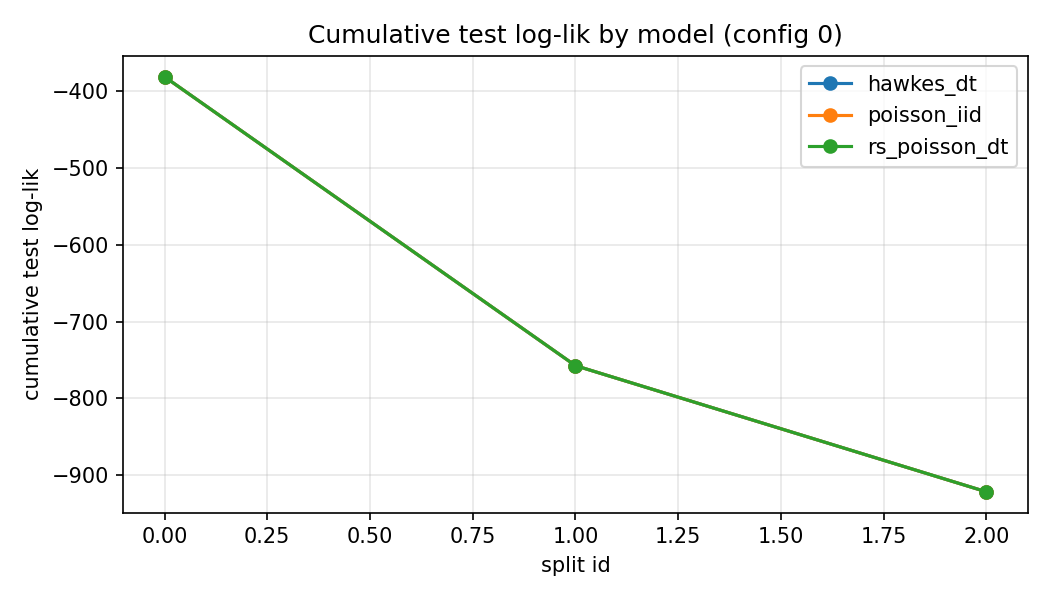
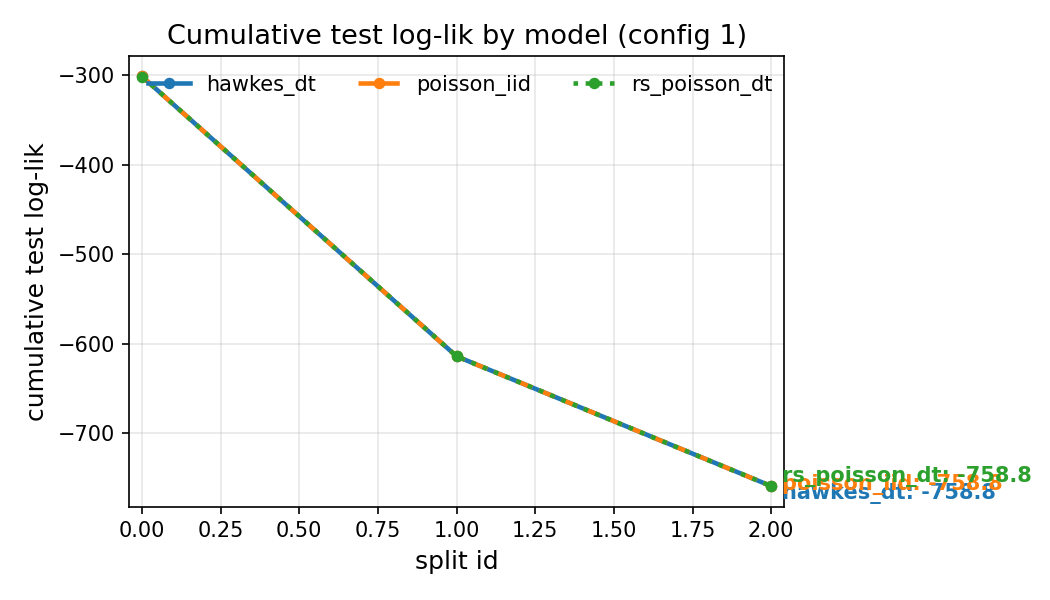
minor update

diff --git a/criticality/plots.py b/criticality/plots.py
@@ -4,6 +4,7 @@ from __future__ import annotations
 from typing import Optional, Sequence
 
 import matplotlib.pyplot as plt
+from matplotlib import cm
 import numpy as np
 import pandas as pd
 
@@ -19,6 +20,7 @@ def plot_counts(df: pd.DataFrame) -> None:
     ax.set_xlabel("time")
     ax.set_ylabel("count")
     ax.legend()
+    ax.set_axisbelow(True)
     fig.tight_layout()
 
 
@@ -27,7 +29,17 @@ def plot_cumulative_scores(results: pd.DataFrame, config_id: Optional[int] = Non
 
     if results.empty:
         raise ValueError("results dataframe is empty")
-    cfg_id = results["config_id"].min() if config_id is None else config_id
+    for required in ("config_id", "test_loglik", "split_id", "model"):
+        if required not in results.columns:
+            raise ValueError(f"results dataframe missing required column '{required}'")
+
+    if config_id is None:
+        totals = results.groupby("config_id", dropna=False)["test_loglik"].sum()
+        if totals.empty:
+            raise ValueError("results dataframe has no config_id groups")
+        cfg_id = int(totals.idxmax())
+    else:
+        cfg_id = config_id
     subset = results.loc[results["config_id"] == cfg_id]
     if subset.empty:
         raise ValueError(f"No rows for config_id={cfg_id}")
@@ -40,14 +52,37 @@ def plot_cumulative_scores(results: pd.DataFrame, config_id: Optional[int] = Non
     cumsums = pivot.cumsum()
 
     if ax is None:
-        _, ax = plt.subplots(figsize=(7, 4))
-    for model in cumsums.columns:
-        ax.plot(cumsums.index, cumsums[model], marker="o", label=str(model))
+        _, ax = plt.subplots(figsize=(8, 4.5))
+    styles = ["solid", "dashed", "dotted", (0, (3, 1, 1, 1))]
+    colors = cm.get_cmap("tab10").colors
+    for idx, model in enumerate(cumsums.columns):
+        color = colors[idx % len(colors)]
+        ax.plot(
+            cumsums.index,
+            cumsums[model],
+            marker="o",
+            markersize=4.5,
+            linewidth=2.2,
+            linestyle=styles[idx % len(styles)],
+            color=color,
+            label=str(model),
+        )
+        final_y = cumsums[model].iloc[-1]
+        ax.annotate(
+            f"{model}: {final_y:.1f}",
+            xy=(cumsums.index[-1], final_y),
+            xytext=(5, (idx - len(cumsums.columns) / 2) * 4),
+            textcoords="offset points",
+            color=color,
+            fontsize=10,
+            fontweight="bold",
+        )
     ax.set_title(f"Cumulative test log-lik by model (config {cfg_id})")
     ax.set_xlabel("split id")
     ax.set_ylabel("cumulative test log-lik")
-    ax.legend()
-    ax.grid(alpha=0.3)
+    ax.legend(frameon=False, ncol=min(3, len(cumsums.columns)), loc="upper left")
+    ax.margins(x=0.02)
+    ax.set_axisbelow(True)
     return ax
 
 
@@ -56,6 +91,9 @@ def plot_winner_frequency(results: pd.DataFrame, ax: Optional[plt.Axes] = None) 
 
     if results.empty:
         raise ValueError("results dataframe is empty")
+    for required in ("config_id", "model", "test_loglik"):
+        if required not in results.columns:
+            raise ValueError(f"results dataframe missing required column '{required}'")
 
     scores = (
         results.groupby(["config_id", "model"], dropna=False)["test_loglik"]
@@ -72,20 +110,29 @@ def plot_winner_frequency(results: pd.DataFrame, ax: Optional[plt.Axes] = None) 
     freqs = counts / max(total_configs, 1)
 
     if ax is None:
-        _, ax = plt.subplots(figsize=(6, 4))
-    bars = ax.bar(freqs.index, freqs.values, color="steelblue", alpha=0.85)
+        _, ax = plt.subplots(figsize=(7, 4.2))
+    bars = ax.bar(freqs.index, freqs.values, color="#4c72b0", alpha=0.9, width=0.6)
     ax.set_ylabel("win rate across configs")
-    ax.set_ylim(0, 1.05)
+    ax.set_ylim(0, 1.08)
     ax.set_title("Winner frequency (robustness)")
     for bar, val in zip(bars, freqs.values):
-        ax.text(bar.get_x() + bar.get_width() / 2.0, val + 0.02, f"{val:.2f}", ha="center", va="bottom", fontsize=9)
-    ax.grid(axis="y", alpha=0.3)
+        ax.text(
+            bar.get_x() + bar.get_width() / 2.0,
+            val + 0.025,
+            f"{val:.0%}",
+            ha="center",
+            va="bottom",
+            fontsize=10,
+        )
+    ax.set_axisbelow(True)
     return ax
 
 
 def plot_n_proxy_distribution(results: pd.DataFrame, models: Optional[Sequence[str]] = None, ax: Optional[plt.Axes] = None) -> plt.Axes:
     """Show distribution of fitted n_proxy across configs/splits."""
 
+    if "n_proxy" not in results.columns:
+        raise ValueError("results dataframe missing required column 'n_proxy'")
     data = results.copy()
     data = data[np.isfinite(data["n_proxy"])]
     if models:
@@ -97,13 +144,24 @@ def plot_n_proxy_distribution(results: pd.DataFrame, models: Optional[Sequence[s
     grouped = [data.loc[data["model"] == m, "n_proxy"] for m in order]
 
     if ax is None:
-        _, ax = plt.subplots(figsize=(7, 4))
-    bp = ax.boxplot(grouped, labels=order, patch_artist=True, medianprops={"color": "black"})
+        _, ax = plt.subplots(figsize=(8, 4.5))
+    bp = ax.boxplot(
+        grouped,
+        labels=order,
+        patch_artist=True,
+        medianprops={"color": "black"},
+        whiskerprops={"color": "#555"},
+        capprops={"color": "#555"},
+        boxprops={"linewidth": 1.2, "color": "#555"},
+        widths=0.55,
+        showfliers=False,
+    )
     for patch in bp["boxes"]:
-        patch.set_facecolor("lightgray")
+        patch.set_facecolor("#d9d9d9")
     ax.set_ylabel("n_proxy")
     ax.set_title("Distribution of n_proxy across configs")
-    ax.grid(axis="y", alpha=0.3)
+    ax.set_axisbelow(True)
+    ax.axhline(0.0, color="gray", linewidth=0.8, linestyle="--", alpha=0.6)
     return ax
 
 
@@ -112,38 +170,89 @@ def plot_mirage_heatmap(mirage_df: pd.DataFrame, hawkes_models: Optional[Sequenc
 
     if mirage_df.empty:
         raise ValueError("mirage_df is empty")
-    models = list(hawkes_models or sorted(mirage_df["model"].unique()))
+
+    df = mirage_df.copy()
+    if "true_n" in df.columns:
+        df = df[np.isclose(df["true_n"], 0.0)]
+    if df.empty:
+        raise ValueError("No rows where true_n is 0 for mirage heatmap")
+
+    preferred_models = list(hawkes_models or ["hawkes_dt", "rs_hawkes_dt"])
+    available = [m for m in preferred_models if m in set(df["model"])]
+    if not available:
+        available = sorted(df["model"].unique())
+    df = df[df["model"].isin(available)]
+    if df.empty:
+        raise ValueError("No Hawkes-family models available for mirage heatmap")
+
+    value_col = "n_proxy_mean" if "n_proxy_mean" in df.columns else "n_proxy"
+    if value_col not in df.columns:
+        raise ValueError("mirage_df missing n_proxy/n_proxy_mean column")
     grouped = (
-        mirage_df.groupby(["persistence", "rho", "model"], dropna=False)["n_proxy_mean"]
+        df.groupby(["dgp", "persistence", "rho", "model"], dropna=False)[value_col]
         .mean()
         .reset_index()
+        .rename(columns={value_col: "n_proxy_mean"})
     )
-    n_models = len(models)
-    fig, axes = plt.subplots(1, n_models, figsize=(6 * n_models, 4), squeeze=False)
-    for idx, model in enumerate(models):
-        ax = axes[0, idx]
-        pivot = (
-            grouped.loc[grouped["model"] == model]
-            .pivot(index="persistence", columns="rho", values="n_proxy_mean")
-            .sort_index()
-        )
-        if pivot.empty:
-            ax.set_visible(False)
-            continue
-        im = ax.imshow(pivot, origin="lower", aspect="auto", cmap="magma")
-        ax.set_xticks(range(len(pivot.columns)))
-        ax.set_xticklabels([f"{c:.2f}" for c in pivot.columns])
-        ax.set_yticks(range(len(pivot.index)))
-        ax.set_yticklabels([f"{r:.2f}" for r in pivot.index])
-        ax.set_xlabel("rho")
-        ax.set_ylabel("persistence")
-        ax.set_title(f"Mirage E[n_proxy] ({model})")
-        fig.colorbar(im, ax=ax, fraction=0.046, pad=0.04)
-        for i, row_val in enumerate(pivot.index):
-            for j, col_val in enumerate(pivot.columns):
-                val = pivot.loc[row_val, col_val]
-                ax.text(j, i, f"{val:.2f}", ha="center", va="center", color="white", fontsize=8)
-    fig.tight_layout()
+    grouped = grouped[np.isfinite(grouped["n_proxy_mean"])]
+    if grouped.empty:
+        raise ValueError("mirage_df has no finite n_proxy_mean values after filtering")
+    dgp_levels = sorted(grouped["dgp"].unique()) if "dgp" in grouped.columns else ["all"]
+    n_models, n_dgps = len(available), len(dgp_levels)
+    fig_width = max(7.0, 4.8 * n_models)
+    fig_height = max(4.0, 3.5 * n_dgps)
+    fig, axes = plt.subplots(
+        n_dgps,
+        n_models,
+        figsize=(fig_width, fig_height),
+        squeeze=False,
+        constrained_layout=True,
+    )
+
+    vmin, vmax = grouped["n_proxy_mean"].min(), grouped["n_proxy_mean"].max()
+    mid = (vmin + vmax) / 2.0
+    cmap = plt.get_cmap("cividis")
+    im = None
+
+    for row_idx, dgp in enumerate(dgp_levels):
+        for col_idx, model in enumerate(available):
+            ax = axes[row_idx, col_idx]
+            pivot = (
+                grouped.loc[(grouped["model"] == model) & (grouped["dgp"] == dgp)]
+                .pivot(index="persistence", columns="rho", values="n_proxy_mean")
+                .sort_index()
+            )
+            if pivot.empty:
+                ax.set_visible(False)
+                continue
+
+            im = ax.imshow(pivot.values, origin="lower", aspect="equal", cmap=cmap, vmin=vmin, vmax=vmax)
+            ax.set_xticks(range(len(pivot.columns)))
+            ax.set_xticklabels([f"{c:.2f}" for c in pivot.columns], fontsize=11)
+            ax.set_yticks(range(len(pivot.index)))
+            ax.set_yticklabels([f"{r:.2f}" for r in pivot.index], fontsize=11)
+            ax.set_xlabel("rho", fontsize=12)
+            ax.set_ylabel("persistence", fontsize=12)
+            title = f"{model} | DGP={dgp}" if dgp != "all" else f"{model}"
+            ax.set_title(title, fontsize=13, fontweight="bold")
+
+            # Light borders to separate cells
+            for x in np.arange(-0.5, len(pivot.columns), 1):
+                ax.axvline(x, color="white", linewidth=0.8, alpha=0.7)
+            for y in np.arange(-0.5, len(pivot.index), 1):
+                ax.axhline(y, color="white", linewidth=0.8, alpha=0.7)
+            ax.tick_params(axis="both", which="both", length=0)
+
+            for i, row_val in enumerate(pivot.index):
+                for j, col_val in enumerate(pivot.columns):
+                    val = pivot.loc[row_val, col_val]
+                    text_color = "white" if val > mid else "black"
+                    ax.text(j, i, f"{val:.2f}", ha="center", va="center", color=text_color, fontsize=11)
+
+    if im is not None:
+        cbar = fig.colorbar(im, ax=axes.ravel().tolist(), fraction=0.035, pad=0.03)
+        cbar.set_label("E[n_proxy_hat | true n=0]", fontsize=12)
+        cbar.ax.tick_params(labelsize=11)
     return fig
 
 
@@ -152,6 +261,9 @@ def plot_confusion_heatmap(confusion_df: pd.DataFrame, ax: Optional[plt.Axes] = 
 
     if confusion_df.empty:
         raise ValueError("confusion_df is empty")
+    for required in ("dgp", "model", "win_rate"):
+        if required not in confusion_df.columns:
+            raise ValueError(f"confusion_df missing required column '{required}'")
 
     pivot = (
         confusion_df.pivot(index="dgp", columns="model", values="win_rate")
@@ -159,7 +271,7 @@ def plot_confusion_heatmap(confusion_df: pd.DataFrame, ax: Optional[plt.Axes] = 
         .sort_index()
     )
     if ax is None:
-        _, ax = plt.subplots(figsize=(6, 4))
+        _, ax = plt.subplots(figsize=(7, 4.5))
     im = ax.imshow(pivot, origin="lower", aspect="auto", cmap="Blues", vmin=0.0, vmax=1.0)
     ax.set_xticks(range(len(pivot.columns)))
     ax.set_xticklabels(pivot.columns, rotation=45, ha="right")
@@ -171,8 +283,10 @@ def plot_confusion_heatmap(confusion_df: pd.DataFrame, ax: Optional[plt.Axes] = 
     for i, row in enumerate(pivot.index):
         for j, col in enumerate(pivot.columns):
             val = pivot.loc[row, col]
-            ax.text(j, i, f"{val:.2f}", ha="center", va="center", color="black", fontsize=8)
-    plt.colorbar(im, ax=ax, fraction=0.046, pad=0.04)
+            text_color = "black" if val < 0.6 else "white"
+            ax.text(j, i, f"{val:.2f}", ha="center", va="center", color=text_color, fontsize=9)
+    plt.colorbar(im, ax=ax, fraction=0.046, pad=0.04, label="win rate")
+    ax.set_axisbelow(True)
     return ax
 
 

diff --git a/scripts/make_figures.py b/scripts/make_figures.py
@@ -9,6 +9,17 @@ from typing import List
 import matplotlib
 
 matplotlib.use("Agg")
+matplotlib.rcParams.update(
+    {
+        "axes.titlesize": 13,
+        "axes.labelsize": 12,
+        "xtick.labelsize": 10,
+        "ytick.labelsize": 10,
+        "legend.fontsize": 10,
+        "axes.grid": True,
+        "grid.alpha": 0.3,
+    }
+)
 import matplotlib.pyplot as plt  # noqa: E402
 import numpy as np  # noqa: E402
 import pandas as pd  # noqa: E402
@@ -102,6 +113,20 @@ def _ensure_calibration(mirage_map_path: Path, confusion_path: Path, seed: int) 
     return mirage_df, confusion_df
 
 
+def _select_config_id(results_df: pd.DataFrame, requested_id: int | None) -> int:
+    """Pick a baseline config id, defaulting to the top out-of-sample log-likelihood."""
+
+    for required in ("config_id", "test_loglik"):
+        if required not in results_df.columns:
+            raise ValueError(f"results dataframe missing required column '{required}'")
+    if requested_id is not None:
+        return requested_id
+    totals = results_df.groupby("config_id")["test_loglik"].sum()
+    if totals.empty:
+        raise ValueError("Unable to choose a baseline config_id from empty results.")
+    return int(totals.idxmax())
+
+
 def main(argv: List[str] | None = None) -> None:
     args = build_parser().parse_args(argv)
     args.figdir.mkdir(parents=True, exist_ok=True)
@@ -111,7 +136,8 @@ def main(argv: List[str] | None = None) -> None:
 
     # 1) Cumulative out-of-sample score
     fig, ax = plt.subplots(figsize=(7, 4))
-    plot_cumulative_scores(results_df, config_id=args.config_id, ax=ax)
+    cfg_id = _select_config_id(results_df, args.config_id)
+    plot_cumulative_scores(results_df, config_id=cfg_id, ax=ax)
     cum_path = args.figdir / "cumulative_scores.png"
     fig.tight_layout()
     fig.savefig(cum_path, dpi=150)
@@ -136,7 +162,6 @@ def main(argv: List[str] | None = None) -> None:
     # 4) Mirage heatmap (true n=0)
     mirage_fig = plot_mirage_heatmap(mirage_df)
     mirage_path = args.figdir / "mirage_heatmap.png"
-    mirage_fig.tight_layout()
     mirage_fig.savefig(mirage_path, dpi=150)
     plt.close(mirage_fig)
 
